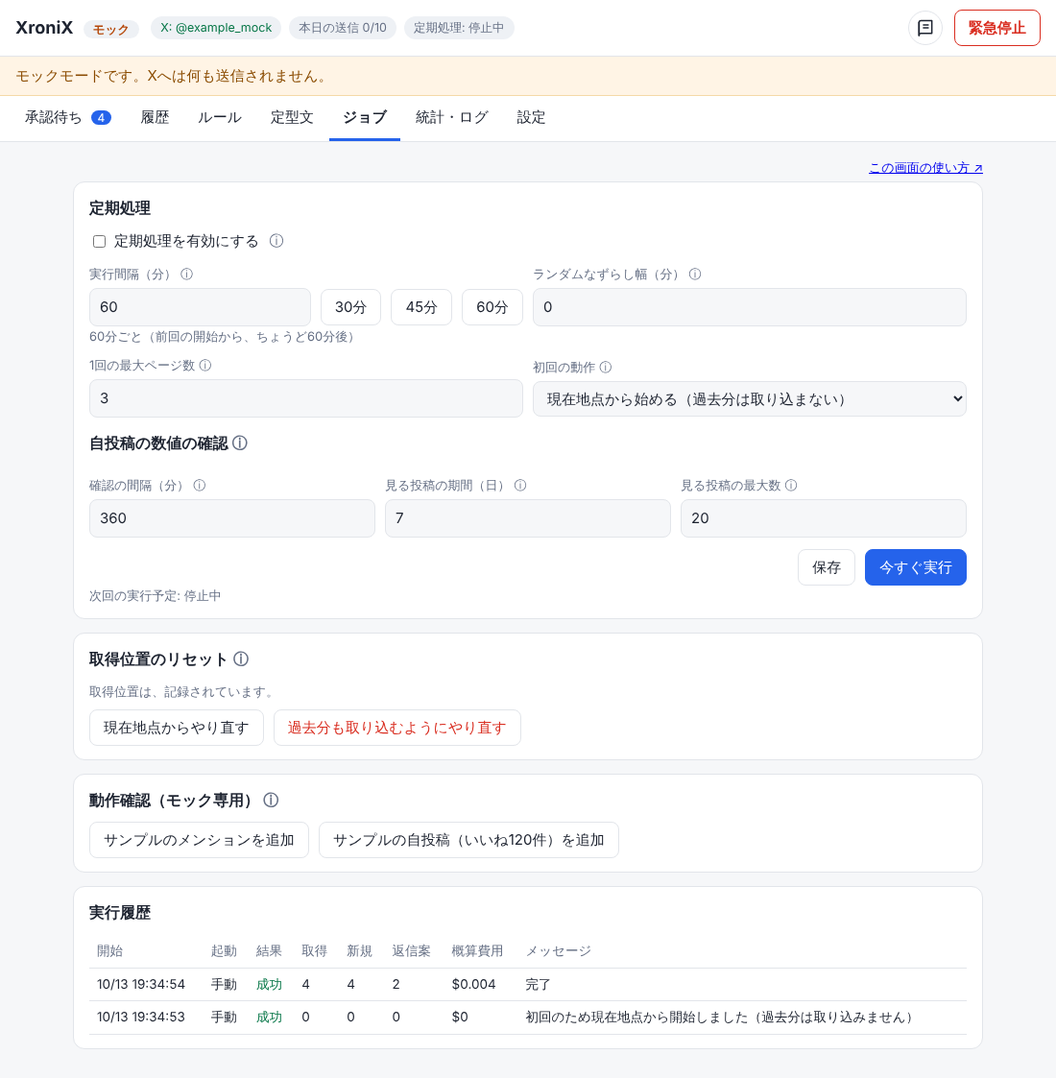
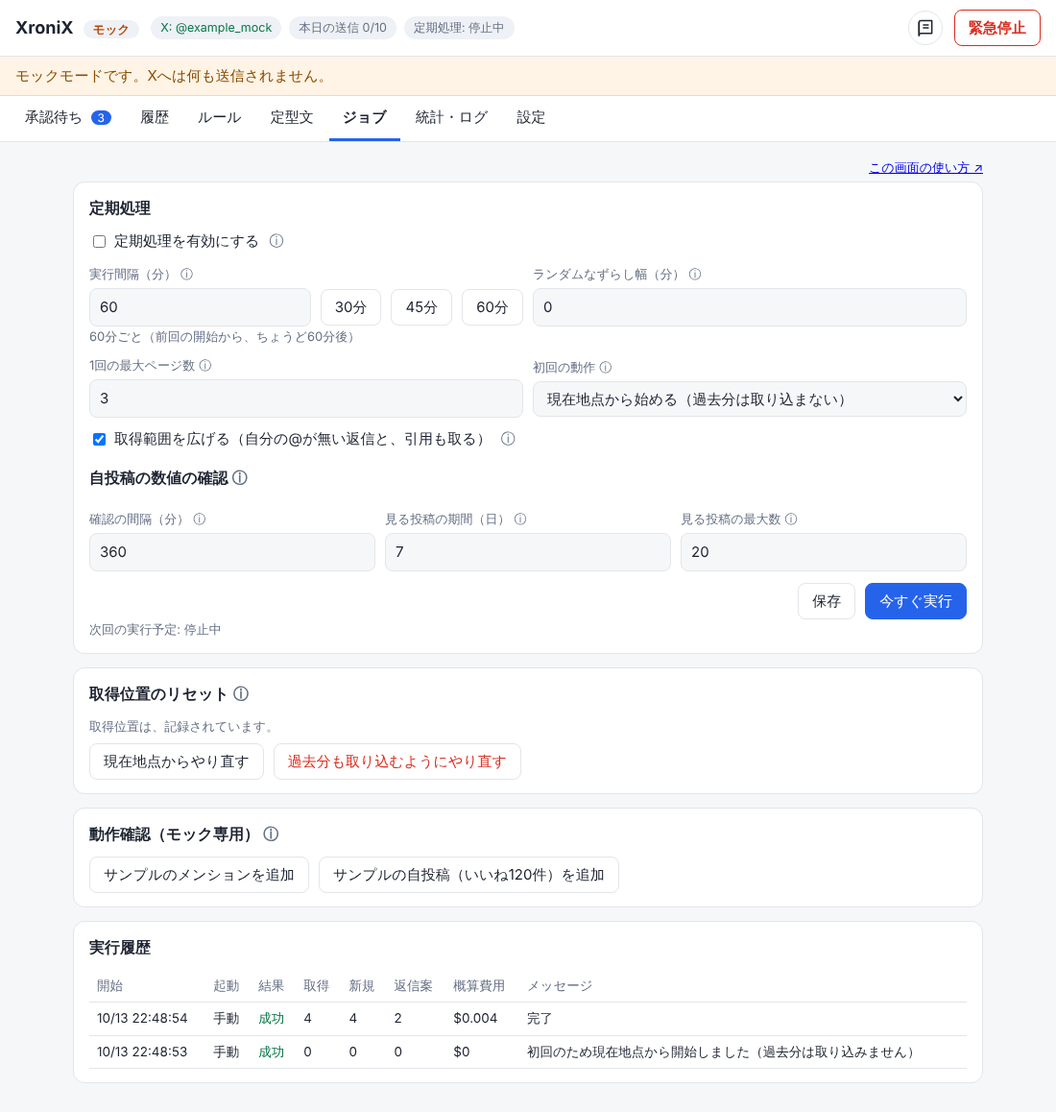
取得範囲を広げる（自分の@が無い返信、引用）と、取りこぼしの修正
- 自分宛ての返信を検索（to:）で補い、引用が増えた自分の投稿だけ引用を取る（設定「取得範囲を広げる」、既定オン）
- 新着が多いときの、取得位置の扱いを修正（最大10ページまで追いつき、取れなかった場合は正しく表示）
- 取得位置のリセットで、返信・引用の取得位置も消す
- ADR-0016、マニュアル、テストを追加

Claude-Session: https://claude.ai/code/session_01EWXvrpRutDAh6miq8xhc1r

diff --git a/web/app.js b/web/app.js
@@ -183,6 +183,7 @@ async function renderJobs() {
   const mInt = h("input", { type: "number", min: 5, max: 1440 }); mInt.value = s.metrics_interval_minutes;
   const mDays = h("input", { type: "number", min: 1, max: 30 }); mDays.value = s.metrics_window_days;
   const mMax = h("input", { type: "number", min: 5, max: 100 }); mMax.value = s.metrics_max_posts;
+  const wide = h("input", { type: "checkbox", checked: s.wide_fetch });
   const initial = h("select", {}, [["from_now", "現在地点から始める（過去分は取り込まない）"], ["backfill", "過去のメンションも取り込む"]].map(([v, t]) => h("option", { value: v, selected: v === s.initial_mode }, t)));
   const preview = h("div", { class: "muted" });
   const updatePreview = () => {
@@ -202,6 +203,7 @@ async function renderJobs() {
     h("div", { class: "row" },
       h("div", { class: "grow" }, lbl("1回の最大ページ数", "1ページは最大100件です。新着が多いときの上限で、残りは次回に取得します。"), pages),
       h("div", { class: "grow" }, lbl("初回の動作", "初回の実行だけに使います。現在地点から始めると、過去のメンションへの返信案は作られません。"), initial)),
+    h("label", { class: "inline", style: "margin-top:10px" }, wide, "取得範囲を広げる（自分の@が無い返信と、引用も取る）", tip("メンション一覧には、自分の@が無い返信や、引用が出ません。オンにすると、検索で自分宛ての返信を補い、引用が増えた自分の投稿だけ引用を取りに行きます。ルールで「自分の投稿への返信」「自分の返信への返信」「自分の投稿の引用」を使うときに必要です。他人の投稿の読み取りになり、約$0.005／件がかかります。")),
     h("h3", { style: "margin-top:14px" }, "自投稿の数値の確認", tip("「いいね数が基準以上」などのルールがあるときだけ、自分の投稿を読みに行きます。読み取りは1投稿あたり約$0.001です。例: 6時間ごとに20投稿なら、1日約$0.08です。")),
     h("div", { class: "row" },
       h("div", { class: "grow" }, lbl("確認の間隔（分）", "5〜1440分。定期処理の間隔とは別に、この間隔ごとに確認します。"), mInt),
@@ -209,7 +211,7 @@ async function renderJobs() {
       h("div", { class: "grow" }, lbl("見る投稿の最大数", "5〜100件。多いほど、読み取り料金が増えます。"), mMax)),
     h("div", { class: "row end", style: "margin-top:12px" },
       h("button", { onclick: async () => {
-        await act(() => api("PUT", "/api/settings/job", { enabled: enabled.checked, interval_minutes: Number(interval.value), jitter_minutes: Number(jitter.value), max_pages: Number(pages.value), initial_mode: initial.value,
+        await act(() => api("PUT", "/api/settings/job", { enabled: enabled.checked, interval_minutes: Number(interval.value), jitter_minutes: Number(jitter.value), max_pages: Number(pages.value), initial_mode: initial.value, wide_fetch: wide.checked,
           metrics_interval_minutes: Number(mInt.value), metrics_window_days: Number(mDays.value), metrics_max_posts: Number(mMax.value) }), "保存しました");
         await refreshStatus(); renderJobs();
       } }, "保存"),

diff --git a/web/manual.html b/web/manual.html
@@ -82,7 +82,7 @@ svg text{font-family:system-ui,"Hiragino Sans","Noto Sans JP",sans-serif;fill:#1
 
 <table>
 <tr><th>できること</th><th>説明</th></tr>
-<tr><td>新着の取得</td><td>決まった間隔で、返信・引用・メンションを集めます。</td></tr>
+<tr><td>新着の取得</td><td>決まった間隔で、返信・引用・メンションを集めます。自分の@が無い返信や引用も、「取得範囲を広げる」で拾えます。</td></tr>
 <tr><td>返信案の作成</td><td>定型文、またはAI（Amazon Bedrock）が案を作ります。</td></tr>
 <tr><td>人の承認</td><td>案を直して送る、または却下します。</td></tr>
 <tr><td>自動処理</td><td>いいねや通知など、決めた範囲だけを自動で行います。</td></tr>
@@ -256,6 +256,7 @@ svg text{font-family:system-ui,"Hiragino Sans","Noto Sans JP",sans-serif;fill:#1
 <tr><td>ランダムなずらし幅</td><td>1〜99分。前後にずらし、秒もランダムにします（毎回00秒にはなりません）。</td></tr>
 <tr><td>初回の動作</td><td>既定は「現在地点から始める」。過去分は取り込みません。</td></tr>
 <tr><td>今すぐ実行</td><td>待たずに1回動かします。</td></tr>
+<tr><td>取得範囲を広げる</td><td>既定はオンです。メンション一覧に出ない返信（自分の@が無いもの）を検索で補い、引用が増えた投稿だけ引用を取りに行きます。ルールで「自分の投稿への返信」「自分の返信への返信」「自分の投稿の引用」を使うときに必要です。他人の投稿の読み取りになり、約$0.005／件かかります。検索の対象は直近7日です。</td></tr>
 <tr><td>取得位置のリセット</td><td>通常は不要です。「どこまで読んだか」を消し、次の実行を初回として扱います。「現在地点からやり直す」は過去分を取り込みません。「過去分も取り込むようにやり直す」は、過去のメンションも取り込みます（件数に応じて費用が増え、自動送信のルールが有効だとまとめて送られる恐れがあります）。履歴・統計・取り込み済みの反応は消えません。</td></tr>
 <tr><td>自投稿の数値の確認</td><td>いいね数などを、決めた間隔で確認します。同じ投稿とルールの組は、1回だけ動きます。</td></tr>
 </table>

diff --git a/src/xronix/jobs.py b/src/xronix/jobs.py
@@ -9,6 +9,7 @@ from .events import METRIC_EVENTS, classify_event
 from .common import Lease, iso, new_id, parse_iso, utcnow
 from .xclient import AuthRequired, XError
 
+MAX_CATCHUP_PAGES = 10  # 新着が多いときに、1回で追いつくページ数の上限（1ページ100件）
 COST_READ = 0.001
 COST_THREAD_READ = 0.005  # スレッドの文脈で読む他人の投稿（上限の見積もり）
 MIN_LEAD_SECONDS = 15        # 次回の実行は、登録時点から最低この秒数あとにする
@@ -129,7 +130,7 @@ class JobRunner:
         token = self.tokens.get_access_token()
         cursor = (self.repo.get("state", "cursor") or {}).get("since_id")
         first = cursor is None
-        res = self.x.mentions(token, xcfg["user_id"], cursor, max_pages=1 if first and cfg["initial_mode"] == "from_now" else cfg["max_pages"],
+        res = self.x.mentions(token, xcfg["user_id"], cursor, max_pages=1 if first and cfg["initial_mode"] == "from_now" else max(cfg["max_pages"], MAX_CATCHUP_PAGES),
                               max_results=5 if first and cfg["initial_mode"] == "from_now" else 100)
         run["fetched"], run["reads"] = len(res["tweets"]), res["reads"]
         if first and cfg["initial_mode"] == "from_now":
@@ -145,7 +146,9 @@ class JobRunner:
         if res["newest_id"]:
             self.repo.put("state", "cursor", {"since_id": res["newest_id"]})
         if res.get("truncated"):
-            run["message"] = "新着が多く、一部は次回に持ち越しました"
+            run["message"] = f"新着が非常に多く、古い分の一部は取り込めませんでした（1回の上限 {MAX_CATCHUP_PAGES * 100}件）"
+            self.log.warn("job", run["message"], run_id=run["id"])
+        self._wide_fetch(run, token, xcfg, fresh=first)
         self._check_metrics(run, token, xcfg["user_id"])
         pending = len(self.pending_ids())
         if run["new"] and pending:
@@ -154,9 +157,10 @@ class JobRunner:
     def _check_metrics(self, run: dict, token: str, my_id: str) -> None:
         """自投稿の数値（いいね数など）が基準以上になったものに、ルールを実行する。確認は設定の間隔ごと。"""
         rules = self.rules.metric_rules() if self.rules else []
-        if not rules:
-            return
         cfg, st, now = self.settings.get("job"), self.state(), self.now()
+        need_quotes = bool(cfg["wide_fetch"] and self.rules and self.rules.reaction_rules("quote"))
+        if not rules and not need_quotes:
+            return
         last = st.get("last_metrics_at", "")
         if last and parse_iso(last) + timedelta(minutes=cfg["metrics_interval_minutes"]) > now:
             return
@@ -179,7 +183,57 @@ class JobRunner:
                 if self.repo.put_if_absent("mentions", item["id"], item):  # 各投稿で、基準を初めて超えたときに1回だけ
                     run["new"] += 1
                     self.engine.run(item, rule, run)
+        if need_quotes:
+            self._fetch_quotes(run, token, my_id, res["tweets"])
         self._save(last_metrics_at=iso(now))
+
+    def _wide_fetch(self, run: dict, token: str, xcfg: dict, fresh: bool) -> None:
+        """メンション一覧に出ない返信（自分の@が無い返信）を、検索で補う。失敗しても、ジョブ全体は失敗にしない。"""
+        cfg = self.settings.get("job")
+        if not cfg["wide_fetch"] or not xcfg.get("username") or not self.rules:
+            return
+        if not self.rules.reaction_rules("reply_to_post", "reply_to_reply"):
+            return
+        try:
+            cur = (self.repo.get("state", "reply_cursor") or {}).get("since_id")
+            first = cur is None
+            skip = first and fresh and cfg["initial_mode"] == "from_now"  # 取得を始めたばかりなら、過去分は取り込まない
+            res = self.x.replies_to_me(token, xcfg["username"], cur, max_pages=1 if skip else MAX_CATCHUP_PAGES)
+            run["thread_reads"] += res["reads"]
+            if skip:
+                self.repo.put("state", "reply_cursor", {"since_id": res["newest_id"] or "0"})
+                return
+            for tw in reversed(res["tweets"]):
+                self._ingest(tw, run, xcfg["user_id"])
+            if res["newest_id"]:
+                self.repo.put("state", "reply_cursor", {"since_id": res["newest_id"]})
+            elif first:
+                self.repo.put("state", "reply_cursor", {"since_id": "0"})
+        except AuthRequired:
+            raise
+        except XError as e:
+            self.log.warn("job", f"返信の検索に失敗しました（メンションの取得は完了）: {e}", run_id=run["id"])
+
+    def _fetch_quotes(self, run: dict, token: str, my_id: str, posts: list[dict]) -> None:
+        """引用の数が増えた自分の投稿だけ、引用を取りに行く。"""
+        seen = self.repo.get("state", "quote_counts") or {}
+        counts = dict(seen)
+        try:
+            for p in posts:
+                n = int(p.get("public_metrics", {}).get("quote_count", 0))
+                if n <= int(seen.get(p["id"], 0)):
+                    continue
+                res = self.x.quotes_of(token, p["id"])
+                run["thread_reads"] += res["reads"]
+                for tw in reversed(res["tweets"]):
+                    self._ingest(tw, run, my_id)
+                counts[p["id"]] = n
+        except AuthRequired:
+            raise
+        except XError as e:
+            self.log.warn("job", f"引用の取得に失敗しました: {e}", run_id=run["id"])
+        finally:
+            self.repo.put("state", "quote_counts", counts)
 
     def pending_ids(self) -> list[str]:
         return [m["id"] for m in self.repo.list("mentions") if m["state"] in ("pending", "review")]

diff --git a/tests/test_flow.py b/tests/test_flow.py
@@ -242,3 +242,73 @@ def test_resolve_unknown(app):
     assert app.repo.get("mentions", a)["state"] == "sent" and app.repo.get("mentions", b)["state"] == "failed"
     assert app.sender.sent_today() == 1
     assert api.handle("POST", f"/api/mentions/{a}/resolve", {}, {"outcome": "sent"})[0] == 409
+
+
+def test_wide_fetch_picks_up_replies_without_my_mention(app):
+    start(app)
+    # 自分の@が無い返信は、メンション一覧には出ず、検索（to:）でだけ取れる
+    app.x.replies_queue.append({"id": "2100000000000000001", "author_id": "700", "text": "いい投稿ですね",
+                                "conversation_id": "1", "in_reply_to_user_id": "9999", "referenced_tweets": [{"type": "replied_to", "id": "1"}]})
+    r = run(app)
+    assert r["new"] == 1 and r["thread_reads"] == 1
+    m = mentions(app)[0]
+    assert m["kind"] == "reply_to_post" and m["id"] == "2100000000000000001"
+    assert run(app)["new"] == 0  # 二重に取り込まない
+
+
+def test_wide_fetch_dedups_with_mentions_and_can_be_turned_off(app):
+    start(app)
+    app.settings.update("job", {"wide_fetch": False})
+    app.x.replies_queue.append({"id": "2100000000000000002", "author_id": "701", "text": "返信", "conversation_id": "1",
+                                "in_reply_to_user_id": "9999", "referenced_tweets": [{"type": "replied_to", "id": "1"}]})
+    assert run(app)["new"] == 0 and mentions(app) == []
+
+
+def test_wide_fetch_first_run_after_deploy_backfills_replies(app):
+    start(app)  # メンションの取得位置は、すでにある
+    app.repo.delete("state", "reply_cursor")
+    app.x.replies_queue.append({"id": "2100000000000000003", "author_id": "702", "text": "以前の返信", "conversation_id": "1",
+                                "in_reply_to_user_id": "9999", "referenced_tweets": [{"type": "replied_to", "id": "1"}]})
+    assert run(app)["new"] == 1
+
+
+def test_quotes_fetched_only_when_count_grows(app, clock):
+    start(app)
+    p = app.x.add_post("自分の投稿", quotes=1)
+    app.x.quotes_db[p["id"]] = [{"id": "2200000000000000001", "author_id": "703", "text": "引用です", "conversation_id": "2200000000000000001",
+                                 "referenced_tweets": [{"type": "quoted", "id": p["id"]}]}]
+    calls = []
+    orig = app.x.quotes_of
+    app.x.quotes_of = lambda *a, **k: (calls.append(1), orig(*a, **k))[1]
+    r = run(app)
+    assert r["new"] == 1 and mentions(app)[0]["kind"] == "quote" and len(calls) == 1
+    clock.advance(minutes=400)  # 確認の間隔を過ぎても、数が増えていなければ読まない
+    run(app)
+    assert len(calls) == 1  # 引用の数が増えていない投稿は、読みに行かない
+
+
+def test_reset_cursor_also_resets_wide_state(app):
+    api = start(app)
+    app.repo.put("state", "quote_counts", {"1": 3})
+    api.handle("POST", "/api/jobs/reset-cursor", {}, {"mode": "from_now"})
+    assert app.repo.get("state", "reply_cursor") is None and app.repo.get("state", "quote_counts") is None
+
+
+def test_wide_fetch_failure_does_not_fail_the_run(app):
+    from xronix.xclient import XError
+    start(app)
+
+    def boom(*a, **k):
+        raise XError("検索は使えません", 403)
+    app.x.replies_to_me = boom
+    r = run(app)
+    assert r["status"] == "ok"
+    assert any("返信の検索に失敗" in l["message"] for l in app.repo.list("logs"))
+
+
+def test_truncated_mentions_message_is_honest(app):
+    start(app)
+    orig = app.x.mentions
+    app.x.mentions = lambda *a, **k: {**orig(*a, **k), "truncated": True}
+    r = run(app)
+    assert "取り込めませんでした" in r["message"] and "持ち越" not in r["message"]

diff --git a/src/xronix/xclient.py b/src/xronix/xclient.py
@@ -126,6 +126,33 @@ class LiveX:
                 break
         return {"tweets": tweets, "newest_id": newest, "reads": reads, "truncated": bool(next_token)}
 
+    def replies_to_me(self, token: str, username: str, since_id: str | None, max_pages: int = 3) -> dict:
+        """自分宛ての返信を、検索で取る（to:）。返信文に自分の@が無い返信も拾える。直近7日が対象。"""
+        tweets: list[dict] = []
+        newest, next_token, reads = None, None, 0
+        for _ in range(max_pages):
+            params = {"query": f"to:{username} -from:{username}", "max_results": 100, "tweet.fields": TWEET_FIELDS}
+            if since_id:
+                params["since_id"] = since_id
+            if next_token:
+                params["next_token"] = next_token
+            data = self._get(token, "/2/tweets/search/recent", params)
+            page = data.get("data", [])
+            tweets += page
+            reads += len(page)
+            meta = data.get("meta", {})
+            newest = newest or meta.get("newest_id")
+            next_token = meta.get("next_token")
+            if not next_token:
+                break
+        return {"tweets": tweets, "newest_id": newest, "reads": reads, "truncated": bool(next_token)}
+
+    def quotes_of(self, token: str, tweet_id: str, max_results: int = 100) -> dict:
+        """ある投稿の引用を取る。"""
+        data = self._get(token, f"/2/tweets/{tweet_id}/quote_tweets", {"max_results": max(10, min(100, max_results)), "tweet.fields": TWEET_FIELDS})
+        tw = data.get("data", [])
+        return {"tweets": tw, "reads": len(tw)}
+
     def tweets(self, token: str, ids: list[str]) -> dict:
         """投稿をIDで取得する（スレッドの文脈用）。読み取りなのでバックオフあり。"""
         if not ids:
@@ -184,6 +211,8 @@ class MockX:
         self.liked: list[str] = []
         self.posts: list[dict] = []
         self.tweets_db: dict[str, dict] = {}
+        self.replies_queue: list[dict] = []  # 自分の@を含まない返信（検索でだけ取れるもの）
+        self.quotes_db: dict[str, list[dict]] = {}  # 投稿ID → その引用
         self.fail_next_like = False
         self._seq = 1_900_000_000_000_000_000
         self.fail_next_create: str | None = None  # テスト用: "definite" | "unknown"
@@ -236,6 +265,16 @@ class MockX:
 
     def own_posts(self, token, user_id, start_time, max_results=20):
         return {"tweets": list(self.posts)[:max_results], "reads": min(len(self.posts), max_results)}
+
+    def replies_to_me(self, token, username, since_id, max_pages=3):
+        tw = sorted(self.replies_queue, key=lambda t: int(t["id"]), reverse=True)
+        if since_id:
+            tw = [t for t in tw if int(t["id"]) > int(since_id)]
+        return {"tweets": tw, "newest_id": tw[0]["id"] if tw else None, "reads": len(tw), "truncated": False}
+
+    def quotes_of(self, token, tweet_id, max_results=100):
+        tw = list(self.quotes_db.get(tweet_id, []))
+        return {"tweets": tw, "reads": len(tw)}
 
     def like(self, token, user_id, tweet_id):
         if self.fail_next_like:

diff --git a/src/xronix/settings.py b/src/xronix/settings.py
@@ -11,7 +11,7 @@ DEFAULTS: dict[str, dict] = {
         "openai_model": "gpt-4o-mini", "openai_base_url": "https://api.openai.com/v1",
     },
     "job": {"enabled": False, "interval_minutes": 60, "jitter_minutes": 0, "initial_mode": "from_now", "max_pages": 3,
-            "metrics_interval_minutes": 360, "metrics_window_days": 7, "metrics_max_posts": 20},
+            "metrics_interval_minutes": 360, "metrics_window_days": 7, "metrics_max_posts": 20, "wide_fetch": True},
     "safety": {"kill_switch": False, "daily_limit": 10, "like_daily_limit": 20, "auto_daily_limit": 5},
     "notify": {"telegram_enabled": False, "telegram_chat_id": "", "site_url": ""},
 }
@@ -21,7 +21,7 @@ SCHEMA: dict[str, dict[str, type]] = {
     "x": {"client_id": str, "redirect_uri": str},
     "ai": {"provider": str, "bedrock_model": str, "bedrock_region": str, "openai_model": str, "openai_base_url": str},
     "job": {"enabled": bool, "interval_minutes": int, "jitter_minutes": int, "initial_mode": str, "max_pages": int,
-            "metrics_interval_minutes": int, "metrics_window_days": int, "metrics_max_posts": int},
+            "metrics_interval_minutes": int, "metrics_window_days": int, "metrics_max_posts": int, "wide_fetch": bool},
     "safety": {"kill_switch": bool, "daily_limit": int, "like_daily_limit": int, "auto_daily_limit": int},
     "notify": {"telegram_enabled": bool, "telegram_chat_id": str, "site_url": str},
 }

diff --git a/tests/test_core.py b/tests/test_core.py
@@ -153,3 +153,19 @@ def test_oauth_scope_and_pkce():
     with pytest.raises(AuthRequired):
         LiveX(http).refresh("cid", "sec", "old")
     assert http.calls[0]["headers"]["Authorization"].startswith("Basic ")
+
+
+def test_live_replies_to_me_and_quotes_requests():
+    import urllib.parse
+    from conftest import FakeHttp
+    http = FakeHttp()
+    x = LiveX(http, sleep=lambda s: None)
+    http.push(200, {"data": [{"id": "5"}], "meta": {"newest_id": "5", "next_token": "NT"}})
+    http.push(200, {"data": [{"id": "4"}], "meta": {"newest_id": "4"}})
+    r = x.replies_to_me("tok", "example_account", "3", max_pages=3)
+    assert [t["id"] for t in r["tweets"]] == ["5", "4"] and r["newest_id"] == "5" and r["truncated"] is False
+    q1 = urllib.parse.parse_qs(urllib.parse.urlparse(http.calls[0]["url"]).query)
+    assert "/2/tweets/search/recent" in http.calls[0]["url"] and q1["query"] == ["to:example_account -from:example_account"] and q1["since_id"] == ["3"]
+    assert urllib.parse.parse_qs(urllib.parse.urlparse(http.calls[1]["url"]).query)["next_token"] == ["NT"]
+    http.push(200, {"data": [{"id": "9"}]})
+    assert x.quotes_of("tok", "77")["reads"] == 1 and "/2/tweets/77/quote_tweets" in http.calls[-1]["url"]

diff --git a/src/xronix/rules.py b/src/xronix/rules.py
@@ -167,5 +167,9 @@ class Rules:
                 return r
         return None
 
+    def reaction_rules(self, *events: str) -> list[dict]:
+        """有効なルールのうち、指定した反応の種類を対象にするもの。"""
+        return [r for r in self.list() if r["enabled"] and any(e in r["events"] for e in events)]
+
     def metric_rules(self) -> list[dict]:
         return [r for r in self.list() if r["enabled"] and r["events"] and is_metric(r["events"][0])]

diff --git a/src/xronix/api.py b/src/xronix/api.py
@@ -392,6 +392,8 @@ class Api:
         a = self.app
         a.settings.update("job", {"initial_mode": mode})
         a.repo.delete("state", "cursor")
+        a.repo.delete("state", "reply_cursor")
+        a.repo.delete("state", "quote_counts")
         a.logger.warn("job", "取得位置をリセットしました（" + ("現在地点から始める" if mode == "from_now" else "過去分も取り込む") + "）")
         return _ok({"mode": mode})
 

diff --git a/tests/test_actions.py b/tests/test_actions.py
@@ -310,6 +310,7 @@ def test_metric_rule_is_checked_at_its_own_interval(app, clock):
 
 def test_metric_not_checked_without_enabled_metric_rules(app):
     connect_and_start(app)
+    app.settings.update("job", {"wide_fetch": False})  # 取得範囲の拡張（引用の確認）も切る
     called = []
     app.x.own_posts = lambda *a, **k: called.append(1)
     app.x.add_post("人気", likes=1000)

diff --git a/docs/adr/0016-wide-fetch.md b/docs/adr/0016-wide-fetch.md
@@ -1,0 +1,31 @@
+# ADR-0016 取得範囲を広げる（自分の@が無い返信と、引用）
+
+状態: 採用　日付: 2026-10-13
+
+## 背景
+
+取得元がメンション一覧（`GET /2/users/:id/mentions`）だけだと、次のものが取れず、ルール（自分の投稿への返信、自分の返信への返信、自分の投稿の引用）が動かない場合がある。
+
+- 返信文に自分の@が無い返信（@を消して返信された場合など）
+- 自分の@を含まない引用
+
+また、新着が1回の取得上限（300件）を超えたとき、取得位置を最新まで進めるため、古い分が取れないまま、画面には「次回に持ち越し」と出ていた。
+
+## 決定
+
+| 対象 | 取得方法 | 条件 |
+| --- | --- | --- |
+| 自分宛ての返信 | 検索 `GET /2/tweets/search/recent`、クエリ `to:自分 -from:自分`。専用の取得位置（`reply_cursor`）で、差分だけを読む | 設定「取得範囲を広げる」がオン、かつ、返信系のルールが有効 |
+| 引用 | `GET /2/tweets/:id/quote_tweets`。自分の投稿の引用数（`public_metrics`）が、前回より増えた投稿だけ | 同上で、引用のルールが有効。自投稿の確認の間隔ごと |
+| 追いつき | 新着が多いときは、最大10ページ（1000件）まで読む。それでも足りなければ、位置を進め、取れなかったことを正しく表示する | 常に |
+
+- 取り込みは、投稿IDで重複を防ぐ（メンション一覧と検索で同じ投稿が来ても、1回だけ）。
+- 検索や引用の取得に失敗しても、メンションの取得は完了とし、ジョブは失敗にしない。ログに警告を残す。
+- 初回: 取得を始めたばかりで、初回の動作が「現在地点から」なら、過去分は取り込まない。すでに取得を始めている環境に、この機能が入った場合は、検索で取れる範囲（直近7日）を取り込む。
+- 費用: 他人の投稿の読み取りで、約 $0.005／件。実行履歴の概算費用に含める。設定でオフにできる。
+
+## 結果と制約
+
+- 検索の対象は直近7日。それより古い返信は取れない。
+- 自分の投稿のスレッド内で、他人が他人に返した返信は、取らない（ルールの対象外）。
+- 実機のXでの動作（検索の可否、課金区分）は、未確認。失敗は、ログの警告で分かる。

diff --git a/docs/TODO.md b/docs/TODO.md
@@ -46,7 +46,8 @@
 - [ ] 返信APIの現行制限の確認（返信に @ユーザー名 が要るかどうか等）。要るなら、ユーザー名の取得方法と費用を検討
 
 - [ ] ルールを実機で確認する（いいね。権限 like.write のため、Xと接続し直す。送信は少数ずつ）
-- [ ] 引用の網羅的な取得（`quote_tweets`）、他人のリポストの扱いを検討する（費用を確認してから）
+- [x] 引用の取得（`quote_tweets`）と、自分の@が無い返信の検索を実装（ADR-0016）。実機のXでの動作と課金は未確認
+- [ ] 他人のリポストの扱いを検討する（費用を確認してから）
 - [x] Bedrockの「GPT-6 Luna」は、一覧に出ることを確認した（`openai.gpt-6-luna`）。ただし、このアカウントでは使えない（AWS営業への問い合わせが必要）。利用可否の確認と、自動の切り替えを実装した（ADR-0015）
 - [ ] Bedrockで、実際に使えるモデルで、接続テストが通ることを確認する
 
